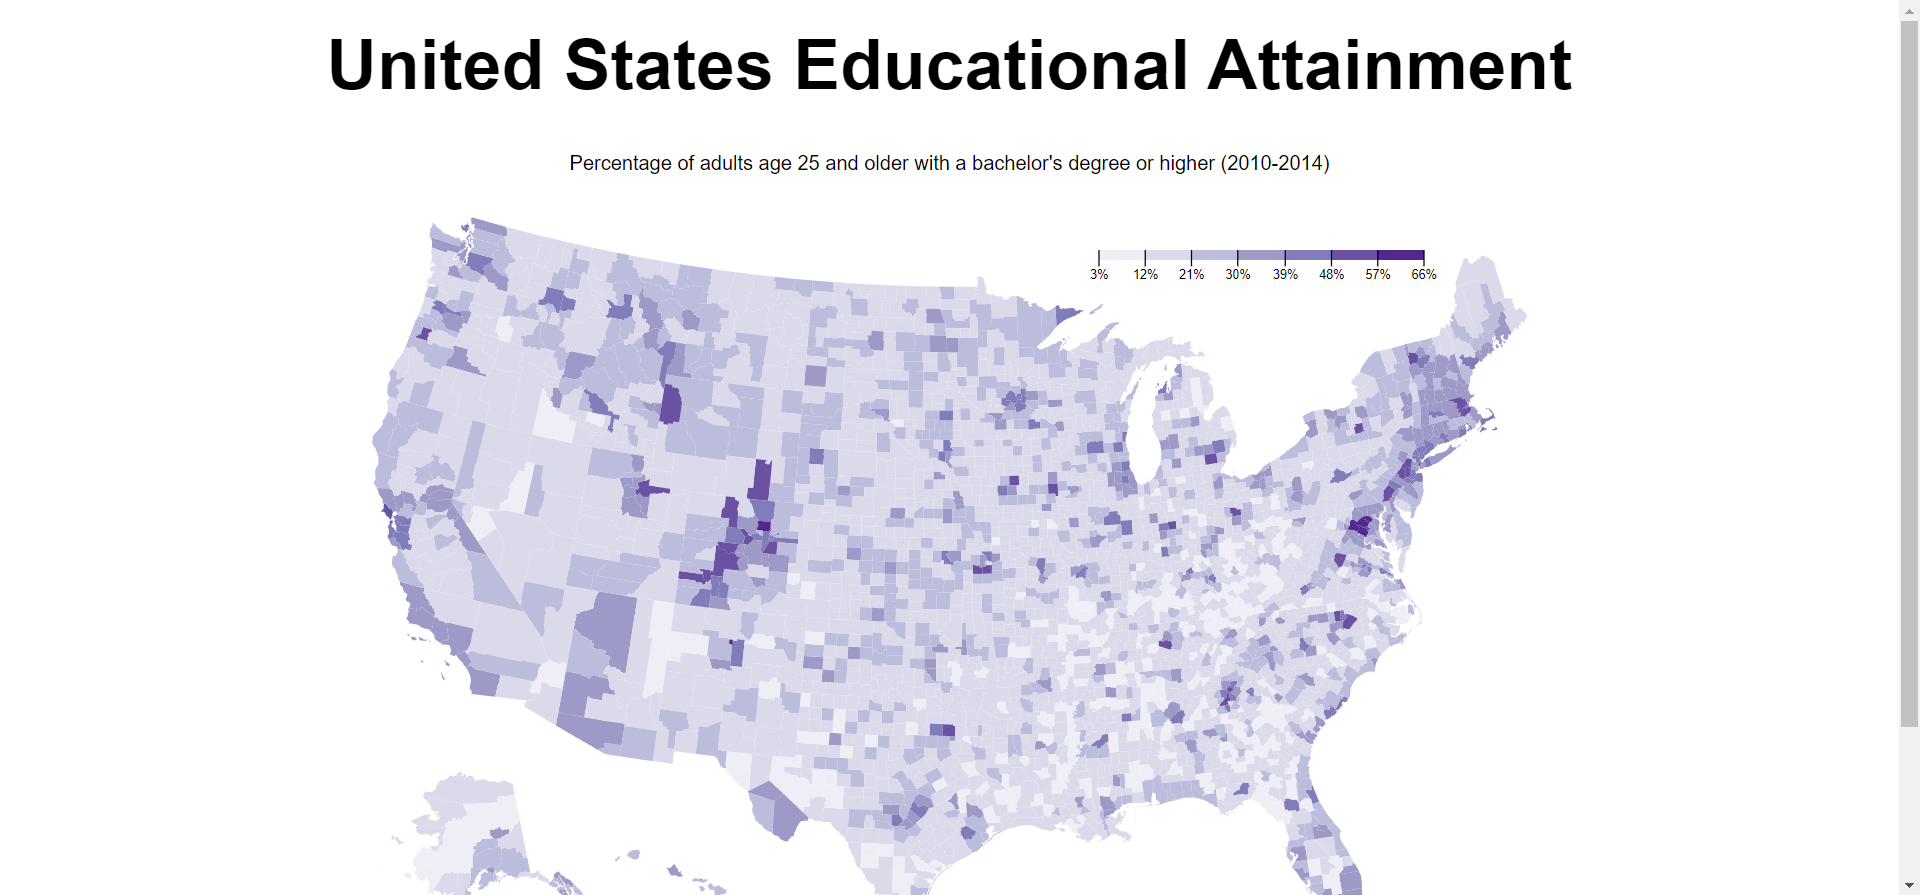
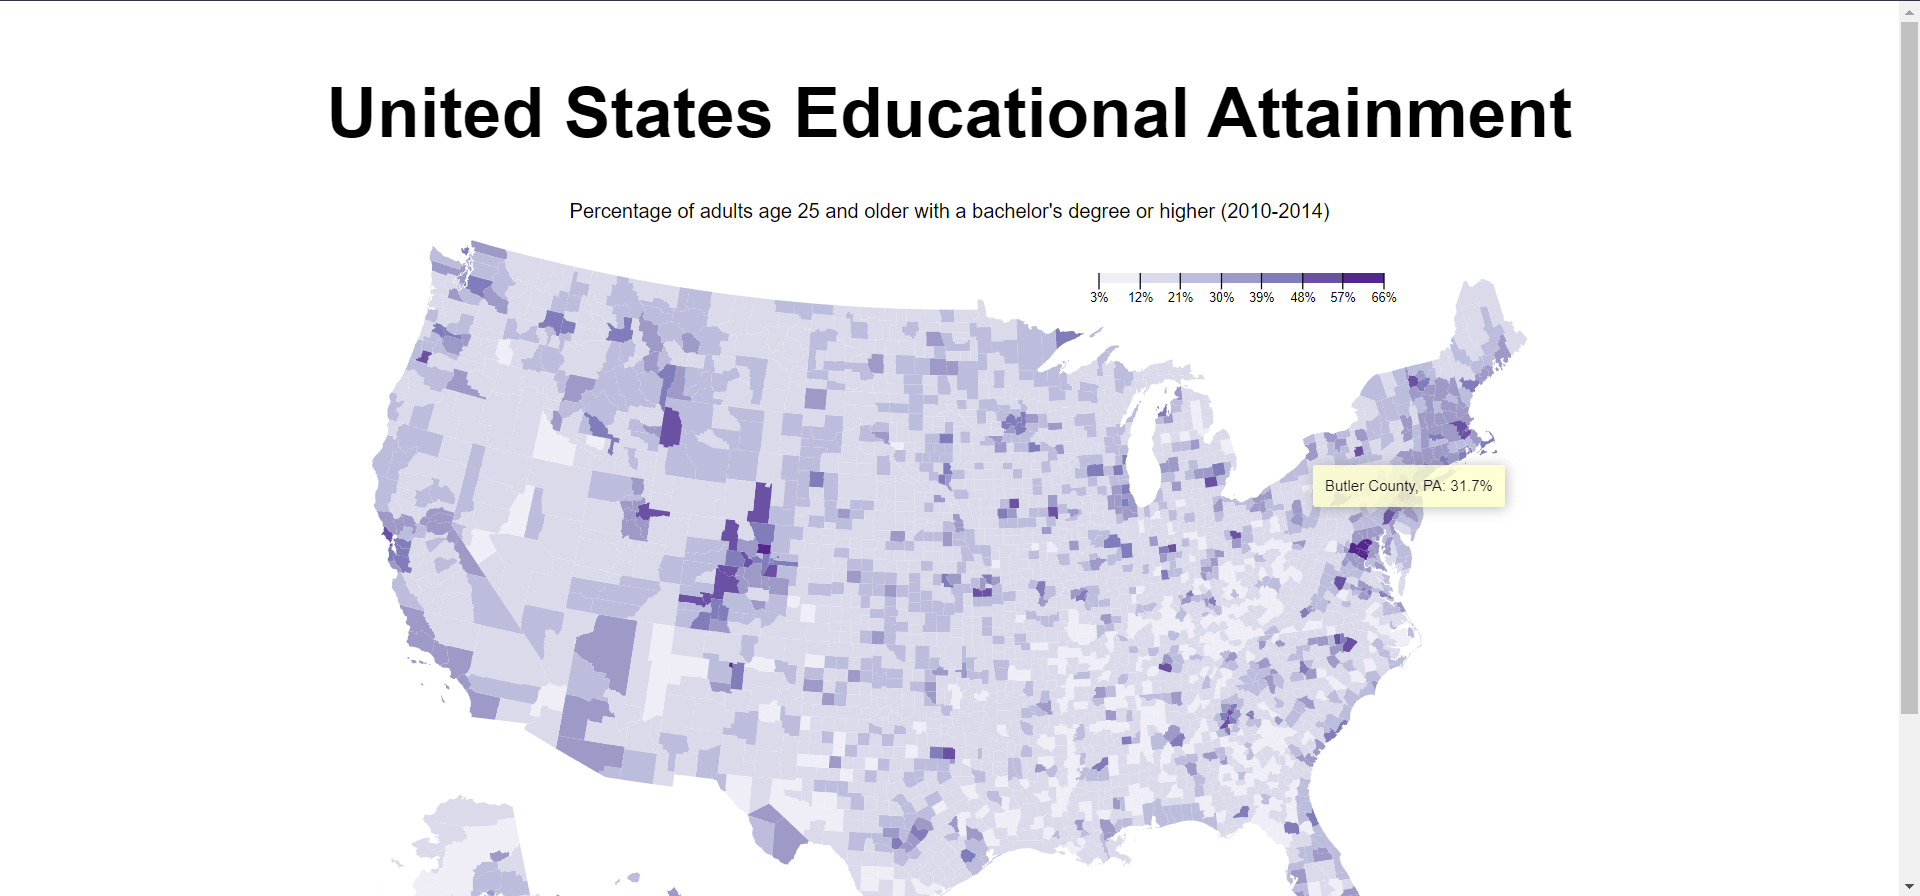
Update landing screenshot

diff --git a/script.js b/script.js
@@ -14,7 +14,7 @@ Promise.all([
     .style('font-size', '5.6rem')
     .style('font-family', 'Arial')
     .style('font-weight', 700)
-    .style('margin-bottom', '37.5px')
+    .style('margin-block', '37.5px')
 
   // Description
   d3.select('main')
@@ -23,7 +23,6 @@ Promise.all([
     .attr('id', 'description')
     .style('font-size', '1.6rem')
     .style('font-family', 'Arial')
-    .style('margin-bottom', '20px')
 
   // Main SVG
   const svg = d3.select('main')
@@ -66,7 +65,7 @@ Promise.all([
     .range(colorScheme);
 
   const legendXScale = d3.scaleLinear()
-    .domain([minBachelor, maxBachelor - step])
+    .domain([minBachelor, maxBachelor])
     .rangeRound([600, 860])
 
   const legendXAxis = d3.axisBottom(legendXScale)
